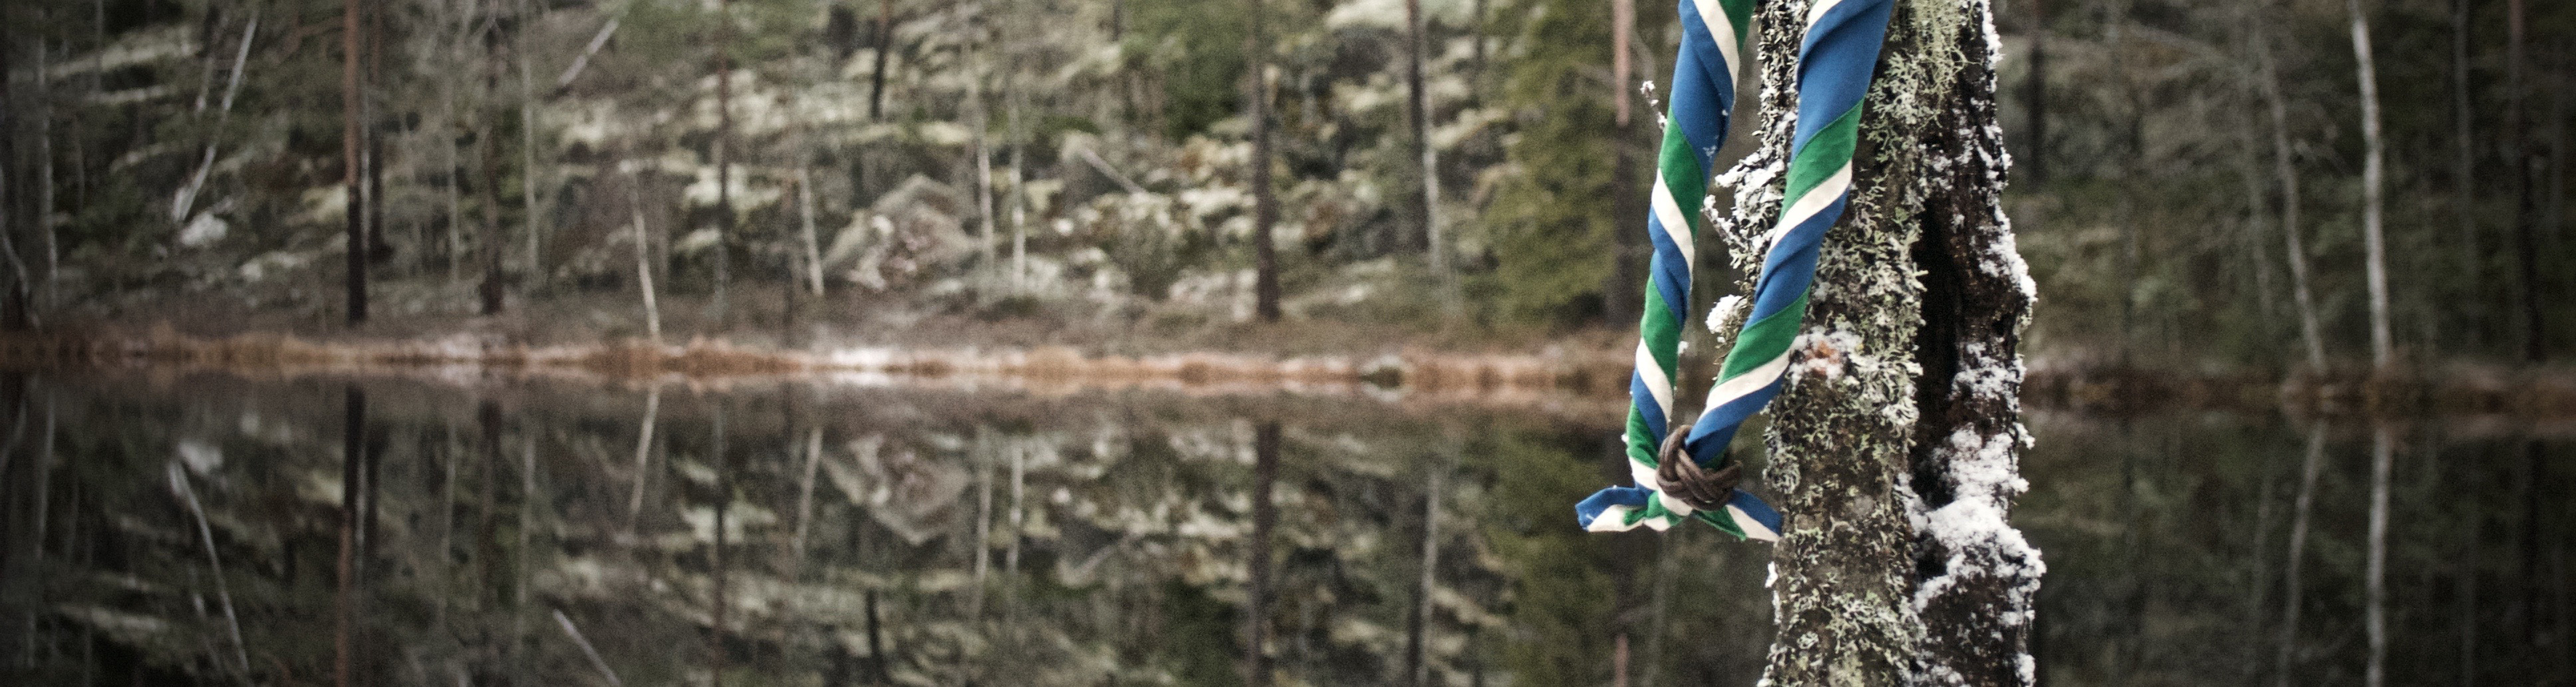
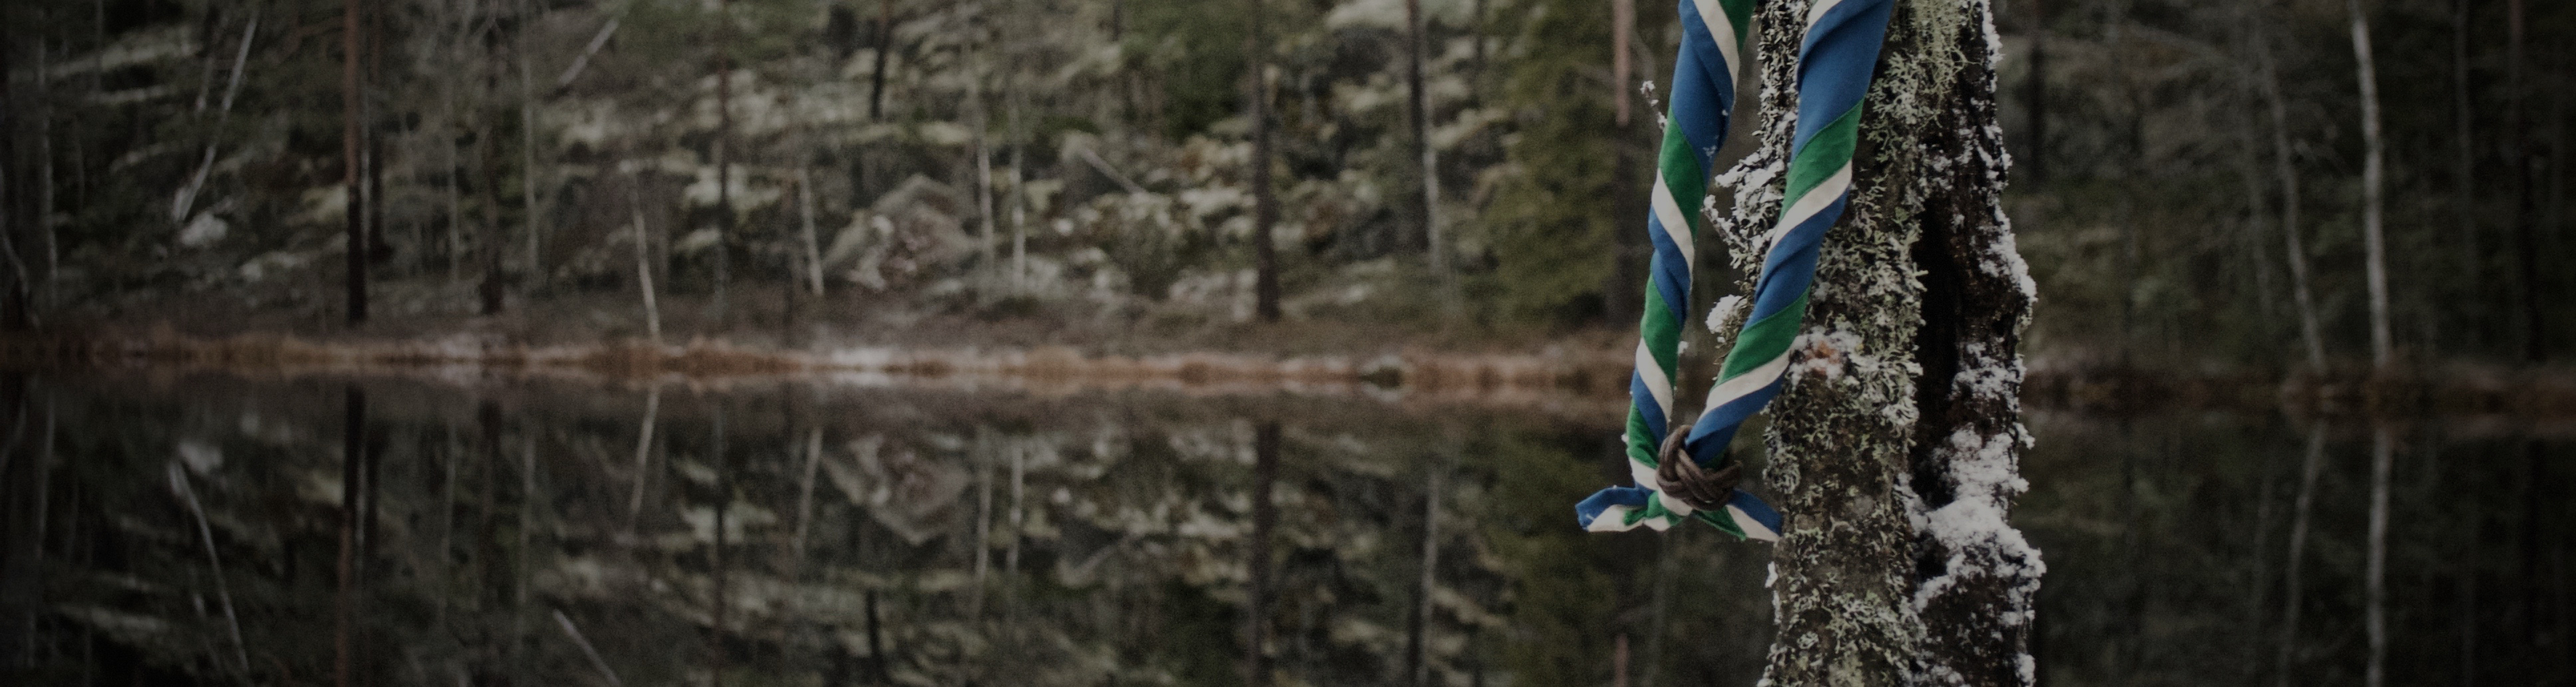
Header styles, rm old news.

diff --git a/jaseneksi.html b/jaseneksi.html
@@ -4,7 +4,7 @@
   js = d.createElement(s); js.id = id;
   js.src = "//connect.facebook.net/en_GB/all.js#xfbml=1";
   fjs.parentNode.insertBefore(js, fjs);
-}(document, "script", "facebook-jssdk"));</script><header><h1>Helsingin Erä-Leijonat ry</h1><p id="alt">Pukinmäkeläistä partiotoimintaa vuodesta 1993.</p></header><nav><ul><li class="inactive"><a href="index.html">Etusivu</a></li><li class="inactive"><a href="mita_partio_on.html">Partio?</a></li><li class="inactive"><a href="lippukunta.html">Lippukunta</a></li><li class="active"><a href="jaseneksi.html">Jäsenhakemus</a></li><li class="inactive"><a href="yhteystiedot.html">Yhteystiedot</a></li><li class="inactive"><a href="johtajille.html">Johtajille</a></li></ul></nav><article id="join"><h2 id="j-senhakemus">Jäsenhakemus</h2>
+}(document, "script", "facebook-jssdk"));</script><header><h1>Helsingin Erä-Leijonat ry</h1><span id="alt">Pukinmäkeläistä partiotoimintaa vuodesta 1993.</span></header><nav><ul><li class="inactive"><a href="index.html">Etusivu</a></li><li class="inactive"><a href="mita_partio_on.html">Partio?</a></li><li class="inactive"><a href="lippukunta.html">Lippukunta</a></li><li class="active"><a href="jaseneksi.html">Jäsenhakemus</a></li><li class="inactive"><a href="yhteystiedot.html">Yhteystiedot</a></li><li class="inactive"><a href="johtajille.html">Johtajille</a></li></ul></nav><article id="join"><h2 id="j-senhakemus">Jäsenhakemus</h2>
 <p>Olet hakemassa jäsenyyttä <strong>Helsingin Erä-Leijonat ry</strong>:hyn. Jos täytät lomaketta lapsesi puolesta, ole hyvä ja täytä myös huoltajan tiedot.</p>
 <p>Jäsenten on maksettava vuosittain Suomen Partiolaisten ja lippukunnan jäsenmaksu. Suomen Partiolaiset&nbsp;ry lähettää näistä yhdistetyn laskun postitse.</p>
 <form id="member-details"><h3>Hakijan tiedot</h3><label for="firstNames">Etunimet</label><input id="firstNames" type="text" placeholder="Etunimet" autofocus><label for="lastName">Sukunimi</label><input id="lastName" type="text" placeholder="Sukunimi"><label for="address">Osoite</label><textarea id="address" rows="4" placeholder="Postiosoite"></textarea><label for="birth-date">Syntymäaika</label><select id="birth-date"><option value="1">1.</option><option value="2">2.</option><option value="3">3.</option><option value="4">4.</option><option value="5">5.</option><option value="6">6.</option><option value="7">7.</option><option value="8">8.</option><option value="9">9.</option><option value="10">10.</option><option value="11">11.</option><option value="12">12.</option><option value="13">13.</option><option value="14">14.</option><option value="15">15.</option><option value="16">16.</option><option value="17">17.</option><option value="18">18.</option><option value="19">19.</option><option value="20">20.</option><option value="21">21.</option><option value="22">22.</option><option value="23">23.</option><option value="24">24.</option><option value="25">25.</option><option value="26">26.</option><option value="27">27.</option><option value="28">28.</option><option value="29">29.</option><option value="30">30.</option><option value="31">31.</option></select><select id="birth-month"><option value="1">tammikuuta</option><option value="2">helmikuuta</option><option value="3">maaliskuuta</option><option value="4">huhtikuuta</option><option value="5">toukokuuta</option><option value="6">kesäkuuta</option><option value="7">heinäkuuta</option><option value="8">elokuuta</option><option value="9">syyskuuta</option><option value="10">lokakuuta</option><option value="11">marraskuuta</option><option value="12">joulukuuta</option></select><input id="birth-year" placeholder="Vuosi"><label for="phone">Puhelinnumero</label><input id="phone" type="text" placeholder="Puhelinnumero"><label for="email">Sähköpostiosoite</label><input id="email" type="text" placeholder="Sähköposti"><h3>Huoltajan tiedot</h3><p>Täytettävä, jos hakija on alle 18-vuotias.</p><label for="huoltaja-name">Huoltajan nimi</label><input id="huoltaja-name" type="text" placeholder="Huoltajan nimi"><label for="huoltaja-phone">Huoltajan puhelinnumero</label><input id="huoltaja-phone" type="text" placeholder="Huoltajan puhelinnumero"><label for="huoltaja-email">Huoltajan sähköpostiosoite</label><input id="huoltaja-email" type="text" placeholder="Huoltajan sähköposti"><label for="photo-publication-ok">Valokuvien verkkojulkaisu</label><table><tr><td><input id="photo-publication-ok" type="checkbox"></td><td><span class="small">Annan lippukunnalle luvan julkaista lapsestani partiotapahtumissa otettuja valokuvia internetissä (Facebook, kotisivut jne.).</span></td></tr></table><h3>Lisätiedot</h3><textarea id="details" placeholder="Vapaa lisätietokenttä. Onko kysyttävää, haluatko meidän ottavan yhteyttä, tms.?"></textarea><button id="submit" type="button">Lähetä hakemus</button></form><p id="submit-result"></p><h3>Rekisteriseloste</h3><p>Syöttämäsi tiedot tallennetaan Suomen Partiolaisten sähköiseen jäsenrekisteriin. Henkilötietolain 10&nbsp;§:n mukainen <a href="http://toiminta.partio.fi/sites/partio.fi/files/polku_rekisteriseloste.pdf">rekisteriseloste on saatavilla SP:n sivuilla</a>.</p>

diff --git a/contents/css/style.css b/contents/css/style.css
@@ -1,4 +1,5 @@
 * {
+  font-family: "Karla", helvetica;
   margin: 0;
   padding: 0;
 }
@@ -10,7 +11,6 @@ body {
 }
 
 p {
-  font-family: "Karla", helvetica;
   text-align: justify;
 }
 
@@ -24,14 +24,13 @@ span.small {
 }
 
 header {
-  padding: 3%;
   background: #48a url('../header.jpg');
   background-size: cover;
   overflow: hidden;
+  text-align: center;
 }
 
 footer {
-  font-family: "Karla", helvetica;
   padding: 1.5em 3em 2em;
   background: #333;
   color: #aaa;
@@ -62,30 +61,21 @@ article#index {
   background-image: none;
 }
 
-#alt, h1 {
-  display: table-cell;
-  padding: 5px;
-  text-align: center;
-  display: block;
-}
-
 h1 {
-  background: #fff;
-  opacity: .6;
+  color: #fff;
+  text-shadow: 2px 3px 3px #000;
   font-size: 3em;
-  max-width: 400px;
-  text-align: center;
+  line-height: 2em;
   text-transform: uppercase;
 }
 
 #alt {
-  background: #334;
+  background: rgba(0,0,0,.6);
   color: #fff;
-  margin-top: 4%;
-  width: 40%;
-  transform: rotate(-4deg);
-  -webkit-transform: rotate(-4deg);
-  -ms-transform: rotate(-4deg);
+  display: inline-block;
+  margin-bottom: 2em;
+  padding: 10px;
+  line-height: 1em;
 }
 
 .left {
@@ -151,7 +141,7 @@ nav a:active {
   color: #fff;
 }
 
-header, nav, h1, h2, h3, h4, form {
+nav ul li a, h1, h2, h3, h4, form {
   font-family: "Abel", sans-serif;
 }
 
@@ -167,7 +157,6 @@ article h2 {
   color: #a44;
   font-size: 1.5em;
   margin-bottom: 1em;
-  border-bottom: 1px solid #ccc;
 }
 
 h2::before {
@@ -187,7 +176,7 @@ article img {
   max-width: 200px;
   float: right;
   border: 1px solid #aaa;
-  border-radius: 10px;
+  border-radius: 2px;
   margin: 0 0 1em 2em;
 }
 
@@ -210,7 +199,6 @@ form label {
 
 form input[type="text"],
 form textarea {
-  font-family: "Karla";
   width: 90%;
 }
 
@@ -243,14 +231,12 @@ form button {
   color: #fff;
   font-size: 1.5em;
   border: 1px solid #666;
-  font-family: "Karla", helvetica;
   padding: 1em;
   width: 100%;
 }
 
 #index table {
   border-collapse: collapse;
-  font-family: "Karla", helvetica;
   margin: 0 auto 1em;
 }
 
@@ -293,16 +279,11 @@ form button {
   }
 
   #alt {
-    transform: none;
-    -webkit-transform: none;
-    -ms-transform: none;
-    width: auto;
-    max-width: 400px;
+    font-size: 12px;
   }
 
-  h1, #alt {
-    margin-left: auto;
-    margin-right: auto;
+  h1 {
+    font-size: 24px;
   }
 
   .decor {

diff --git a/css/style.css b/css/style.css
@@ -1,4 +1,5 @@
 * {
+  font-family: "Karla", helvetica;
   margin: 0;
   padding: 0;
 }
@@ -10,7 +11,6 @@ body {
 }
 
 p {
-  font-family: "Karla", helvetica;
   text-align: justify;
 }
 
@@ -24,14 +24,13 @@ span.small {
 }
 
 header {
-  padding: 3%;
   background: #48a url('../header.jpg');
   background-size: cover;
   overflow: hidden;
+  text-align: center;
 }
 
 footer {
-  font-family: "Karla", helvetica;
   padding: 1.5em 3em 2em;
   background: #333;
   color: #aaa;
@@ -62,30 +61,21 @@ article#index {
   background-image: none;
 }
 
-#alt, h1 {
-  display: table-cell;
-  padding: 5px;
-  text-align: center;
-  display: block;
-}
-
 h1 {
-  background: #fff;
-  opacity: .6;
+  color: #fff;
+  text-shadow: 2px 3px 3px #000;
   font-size: 3em;
-  max-width: 400px;
-  text-align: center;
+  line-height: 2em;
   text-transform: uppercase;
 }
 
 #alt {
-  background: #334;
+  background: rgba(0,0,0,.6);
   color: #fff;
-  margin-top: 4%;
-  width: 40%;
-  transform: rotate(-4deg);
-  -webkit-transform: rotate(-4deg);
-  -ms-transform: rotate(-4deg);
+  display: inline-block;
+  margin-bottom: 2em;
+  padding: 10px;
+  line-height: 1em;
 }
 
 .left {
@@ -151,7 +141,7 @@ nav a:active {
   color: #fff;
 }
 
-header, nav, h1, h2, h3, h4, form {
+nav ul li a, h1, h2, h3, h4, form {
   font-family: "Abel", sans-serif;
 }
 
@@ -167,7 +157,6 @@ article h2 {
   color: #a44;
   font-size: 1.5em;
   margin-bottom: 1em;
-  border-bottom: 1px solid #ccc;
 }
 
 h2::before {
@@ -187,7 +176,7 @@ article img {
   max-width: 200px;
   float: right;
   border: 1px solid #aaa;
-  border-radius: 10px;
+  border-radius: 2px;
   margin: 0 0 1em 2em;
 }
 
@@ -210,7 +199,6 @@ form label {
 
 form input[type="text"],
 form textarea {
-  font-family: "Karla";
   width: 90%;
 }
 
@@ -243,14 +231,12 @@ form button {
   color: #fff;
   font-size: 1.5em;
   border: 1px solid #666;
-  font-family: "Karla", helvetica;
   padding: 1em;
   width: 100%;
 }
 
 #index table {
   border-collapse: collapse;
-  font-family: "Karla", helvetica;
   margin: 0 auto 1em;
 }
 
@@ -293,16 +279,11 @@ form button {
   }
 
   #alt {
-    transform: none;
-    -webkit-transform: none;
-    -ms-transform: none;
-    width: auto;
-    max-width: 400px;
+    font-size: 12px;
   }
 
-  h1, #alt {
-    margin-left: auto;
-    margin-right: auto;
+  h1 {
+    font-size: 24px;
   }
 
   .decor {

diff --git a/lippukunta.html b/lippukunta.html
@@ -4,7 +4,7 @@
   js = d.createElement(s); js.id = id;
   js.src = "//connect.facebook.net/en_GB/all.js#xfbml=1";
   fjs.parentNode.insertBefore(js, fjs);
-}(document, "script", "facebook-jssdk"));</script><header><h1>Helsingin Erä-Leijonat ry</h1><p id="alt">Pukinmäkeläistä partiotoimintaa vuodesta 1993.</p></header><nav><ul><li class="inactive"><a href="index.html">Etusivu</a></li><li class="inactive"><a href="mita_partio_on.html">Partio?</a></li><li class="active"><a href="lippukunta.html">Lippukunta</a></li><li class="inactive"><a href="jaseneksi.html">Jäsenhakemus</a></li><li class="inactive"><a href="yhteystiedot.html">Yhteystiedot</a></li><li class="inactive"><a href="johtajille.html">Johtajille</a></li></ul></nav><article id="troop"><h2 id="helsingin-er-leijonat-ry">Helsingin Erä-Leijonat ry</h2>
+}(document, "script", "facebook-jssdk"));</script><header><h1>Helsingin Erä-Leijonat ry</h1><span id="alt">Pukinmäkeläistä partiotoimintaa vuodesta 1993.</span></header><nav><ul><li class="inactive"><a href="index.html">Etusivu</a></li><li class="inactive"><a href="mita_partio_on.html">Partio?</a></li><li class="active"><a href="lippukunta.html">Lippukunta</a></li><li class="inactive"><a href="jaseneksi.html">Jäsenhakemus</a></li><li class="inactive"><a href="yhteystiedot.html">Yhteystiedot</a></li><li class="inactive"><a href="johtajille.html">Johtajille</a></li></ul></nav><article id="troop"><h2 id="helsingin-er-leijonat-ry">Helsingin Erä-Leijonat ry</h2>
 <p>Lippukuntamme <strong>Helsingin Erä-Leijonat</strong> (lyhenne <strong>HEL</strong>) on suomalaisen partiotoiminnan yli satavuotiseen historiaan nähden verrattain nuori. Yhdistyksemme on perustettu vuonna 1993, ja sillä on tällä hetkellä noin viisikymmentä jäsentä. Olemme moderni yhteislippukunta eli emme profiloidu tyttö- tai poikalippukunnaksi, toisin kuin monet vanhemmat lippukunnat.</p>
 <p>Teemme yhteistyötä muiden lähialueiden lippukuntien kanssa. Viime aikoina olemme touhunneet paljon esimerkiksi <a href="http://www.soihdut.net">Sinivuoren soihtujen</a> (Malmi) ja <a href="http://www.aarnivalkeat.fi">Aarnivalkeiden</a> (Pihlajamäki ja Jakomäki) kanssa.</p>
 <h3 id="j-senyydet-kattoj-rjest-iss-">Jäsenyydet kattojärjestöissä</h3>

diff --git a/index.html b/index.html
@@ -4,15 +4,9 @@
   js = d.createElement(s); js.id = id;
   js.src = "//connect.facebook.net/en_GB/all.js#xfbml=1";
   fjs.parentNode.insertBefore(js, fjs);
-}(document, "script", "facebook-jssdk"));</script><header><h1>Helsingin Erä-Leijonat ry</h1><p id="alt">Pukinmäkeläistä partiotoimintaa vuodesta 1993.</p></header><nav><ul><li class="active"><a href="index.html">Etusivu</a></li><li class="inactive"><a href="mita_partio_on.html">Partio?</a></li><li class="inactive"><a href="lippukunta.html">Lippukunta</a></li><li class="inactive"><a href="jaseneksi.html">Jäsenhakemus</a></li><li class="inactive"><a href="yhteystiedot.html">Yhteystiedot</a></li><li class="inactive"><a href="johtajille.html">Johtajille</a></li></ul></nav><article id="index"><p><img src="/paistunturi.jpg" alt="Vaellus Paistuntureilla">
+}(document, "script", "facebook-jssdk"));</script><header><h1>Helsingin Erä-Leijonat ry</h1><span id="alt">Pukinmäkeläistä partiotoimintaa vuodesta 1993.</span></header><nav><ul><li class="active"><a href="index.html">Etusivu</a></li><li class="inactive"><a href="mita_partio_on.html">Partio?</a></li><li class="inactive"><a href="lippukunta.html">Lippukunta</a></li><li class="inactive"><a href="jaseneksi.html">Jäsenhakemus</a></li><li class="inactive"><a href="yhteystiedot.html">Yhteystiedot</a></li><li class="inactive"><a href="johtajille.html">Johtajille</a></li></ul></nav><article id="index"><p><img src="/paistunturi.jpg" alt="Vaellus Paistuntureilla">
 <strong>Helsingin Erä-Leijonat ry</strong> on Helsingin Pukinmäessä toimiva partiolippukunta. Pidämme viikottain ikäkausiryhmittäisiä partiokokouksia, joiden lisäksi jäsenemme käyvät muun muassa leireillä, vaelluksilla ja partiotaitokisoissa.</p>
 <p>Partio on kiva harrastus sekä lapsille että aikuisille, tule mukaan toimintaan!</p>
-<h2 id="uutisia">Uutisia</h2>
-<p style="background: rgba(255,255,0,.3);padding:.5em">
-<strong>Aikuinen, kiinnostaako partiotoiminta?</strong>
-Etsimme vetäjää 2016 aloittavalle uudelle sudenpenturyhmälle, kokoukset keskiviikkoisin klo 18–19. Saat pestiin koulutusta ja tukea. <a href="/yhteystiedot.html">Ota yhteyttä!</a>
-</p>
-
 <h2 id="kokousajat-syksy-2015">Kokousajat, syksy 2015</h2>
 <table>
 <thead>

diff --git a/mita_partio_on.html b/mita_partio_on.html
@@ -4,7 +4,7 @@
   js = d.createElement(s); js.id = id;
   js.src = "//connect.facebook.net/en_GB/all.js#xfbml=1";
   fjs.parentNode.insertBefore(js, fjs);
-}(document, "script", "facebook-jssdk"));</script><header><h1>Helsingin Erä-Leijonat ry</h1><p id="alt">Pukinmäkeläistä partiotoimintaa vuodesta 1993.</p></header><nav><ul><li class="inactive"><a href="index.html">Etusivu</a></li><li class="active"><a href="mita_partio_on.html">Partio?</a></li><li class="inactive"><a href="lippukunta.html">Lippukunta</a></li><li class="inactive"><a href="jaseneksi.html">Jäsenhakemus</a></li><li class="inactive"><a href="yhteystiedot.html">Yhteystiedot</a></li><li class="inactive"><a href="johtajille.html">Johtajille</a></li></ul></nav><article id="intro"><h2 id="mit-partio-on-">Mitä partio on?</h2>
+}(document, "script", "facebook-jssdk"));</script><header><h1>Helsingin Erä-Leijonat ry</h1><span id="alt">Pukinmäkeläistä partiotoimintaa vuodesta 1993.</span></header><nav><ul><li class="inactive"><a href="index.html">Etusivu</a></li><li class="active"><a href="mita_partio_on.html">Partio?</a></li><li class="inactive"><a href="lippukunta.html">Lippukunta</a></li><li class="inactive"><a href="jaseneksi.html">Jäsenhakemus</a></li><li class="inactive"><a href="yhteystiedot.html">Yhteystiedot</a></li><li class="inactive"><a href="johtajille.html">Johtajille</a></li></ul></nav><article id="intro"><h2 id="mit-partio-on-">Mitä partio on?</h2>
 <p>Partio on lapsille ja nuorille suunnattu, omatoimiseen pienryhmätoimintaan perustuva harrastus, jota ohjaavat vapaaehtoiset aikuiset. Meitä partiolaisia on Suomessa noin 60&nbsp;000, ja koko maailmassa meitä on noin 41 miljoonaa. Partiotoiminnan perusyksikkö on lippukunta (paikallisyhdistys), joita on Suomessa noin 850.</p>
 <h3 id="perinteiset-partiotaidot">Perinteiset partiotaidot</h3>
 <p>Partiolainen tunnetaan perinteisesti luonnossa liikkumisen taidoistaan. Myös 2010-luvulla partiossa suunnistetaan, tehdään solmuja, sytytetään nuotioita ja annetaan ensiapua.</p>

diff --git a/yhteystiedot.html b/yhteystiedot.html
@@ -4,7 +4,7 @@
   js = d.createElement(s); js.id = id;
   js.src = "//connect.facebook.net/en_GB/all.js#xfbml=1";
   fjs.parentNode.insertBefore(js, fjs);
-}(document, "script", "facebook-jssdk"));</script><header><h1>Helsingin Erä-Leijonat ry</h1><p id="alt">Pukinmäkeläistä partiotoimintaa vuodesta 1993.</p></header><nav><ul><li class="inactive"><a href="index.html">Etusivu</a></li><li class="inactive"><a href="mita_partio_on.html">Partio?</a></li><li class="inactive"><a href="lippukunta.html">Lippukunta</a></li><li class="inactive"><a href="jaseneksi.html">Jäsenhakemus</a></li><li class="active"><a href="yhteystiedot.html">Yhteystiedot</a></li><li class="inactive"><a href="johtajille.html">Johtajille</a></li></ul></nav><article id="contact"><h2 id="yhteystiedot">Yhteystiedot</h2>
+}(document, "script", "facebook-jssdk"));</script><header><h1>Helsingin Erä-Leijonat ry</h1><span id="alt">Pukinmäkeläistä partiotoimintaa vuodesta 1993.</span></header><nav><ul><li class="inactive"><a href="index.html">Etusivu</a></li><li class="inactive"><a href="mita_partio_on.html">Partio?</a></li><li class="inactive"><a href="lippukunta.html">Lippukunta</a></li><li class="inactive"><a href="jaseneksi.html">Jäsenhakemus</a></li><li class="active"><a href="yhteystiedot.html">Yhteystiedot</a></li><li class="inactive"><a href="johtajille.html">Johtajille</a></li></ul></nav><article id="contact"><h2 id="yhteystiedot">Yhteystiedot</h2>
 <h3 id="johtajisto">Johtajisto</h3>
 <p>Yleisissä yhteydenotoissa oikea henkilö on lippukunnanjohtaja Maija Ovaska, <a href="mailto:maija.ovaska@hotmail.com">maija.ovaska@hotmail.com</a>. Ryhmänjohtajien yhteystiedot annetaan vanhemmille ryhmään liittymisen yhteydessä.</p>
 <p>Pyrimme vastaamaan yhteydenottoihin ripeästi. Muista kuitenkin, että partio on vapaaehtoisten vapaa-ajallaan hoitamaa harrastustoimintaa, joten emme ole tavoitettavissa aivan 24/7.</p>

diff --git a/johtajille.html b/johtajille.html
@@ -4,7 +4,7 @@
   js = d.createElement(s); js.id = id;
   js.src = "//connect.facebook.net/en_GB/all.js#xfbml=1";
   fjs.parentNode.insertBefore(js, fjs);
-}(document, "script", "facebook-jssdk"));</script><header><h1>Helsingin Erä-Leijonat ry</h1><p id="alt">Pukinmäkeläistä partiotoimintaa vuodesta 1993.</p></header><nav><ul><li class="inactive"><a href="index.html">Etusivu</a></li><li class="inactive"><a href="mita_partio_on.html">Partio?</a></li><li class="inactive"><a href="lippukunta.html">Lippukunta</a></li><li class="inactive"><a href="jaseneksi.html">Jäsenhakemus</a></li><li class="inactive"><a href="yhteystiedot.html">Yhteystiedot</a></li><li class="active"><a href="johtajille.html">Johtajille</a></li></ul></nav><article id="ops"><h2 id="johtajille">Johtajille</h2>
+}(document, "script", "facebook-jssdk"));</script><header><h1>Helsingin Erä-Leijonat ry</h1><span id="alt">Pukinmäkeläistä partiotoimintaa vuodesta 1993.</span></header><nav><ul><li class="inactive"><a href="index.html">Etusivu</a></li><li class="inactive"><a href="mita_partio_on.html">Partio?</a></li><li class="inactive"><a href="lippukunta.html">Lippukunta</a></li><li class="inactive"><a href="jaseneksi.html">Jäsenhakemus</a></li><li class="inactive"><a href="yhteystiedot.html">Yhteystiedot</a></li><li class="active"><a href="johtajille.html">Johtajille</a></li></ul></nav><article id="ops"><h2 id="johtajille">Johtajille</h2>
 <h3 id="lippukunnan-logo">Lippukunnan logo</h3>
 <p><a href="/logo/hel-logo.png">Helsingin Erä-Leijonien logo, rasteri (PNG), valkoinen tausta</a></p>
 <p><a href="/logo/hel-logo-transparent.png">Helsingin Erä-Leijonien logo, rasteri (PNG), läpinäkyvä tausta</a></p>

diff --git a/contents/index.md b/contents/index.md
@@ -8,13 +8,6 @@ template: index.jade
 
 Partio on kiva harrastus sekä lapsille että aikuisille, tule mukaan toimintaan!
 
-## Uutisia
-
-<p style="background: rgba(255,255,0,.3);padding:.5em">
-**Aikuinen, kiinnostaako partiotoiminta?**
-Etsimme vetäjää 2016 aloittavalle uudelle sudenpenturyhmälle, kokoukset keskiviikkoisin klo 18–19. Saat pestiin koulutusta ja tukea. [Ota yhteyttä!](yhteystiedot.html)
-</p>
-
 ## Kokousajat, syksy 2015
 
 |           | Ma                   | Ti                       | Ke | To                      | Pe |
